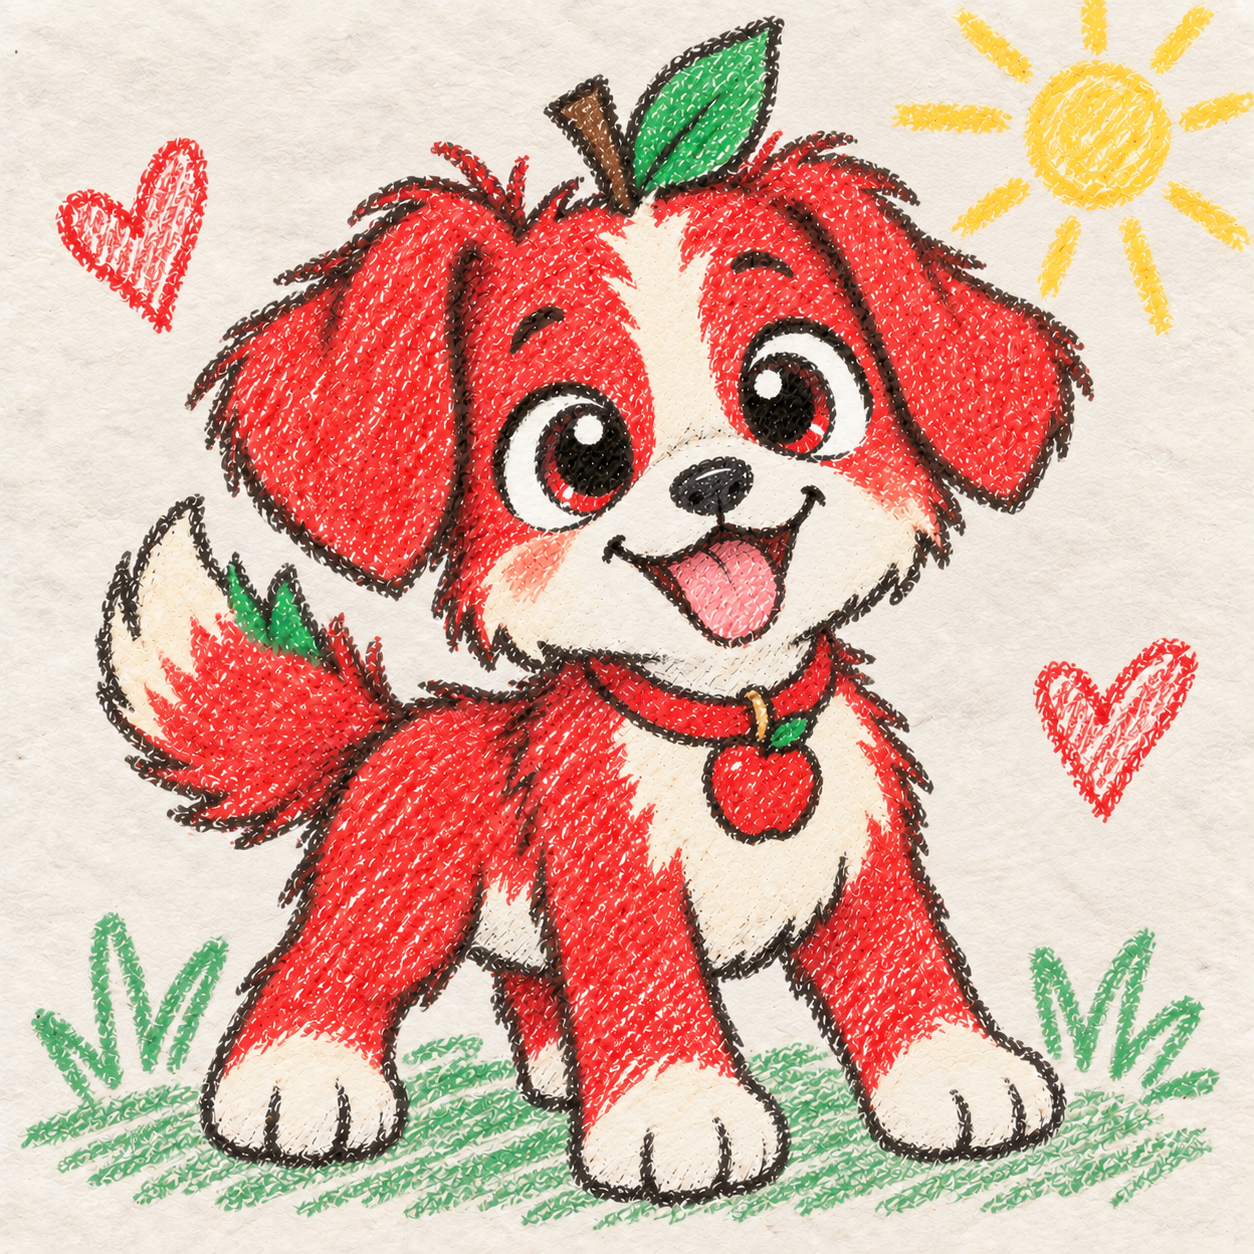
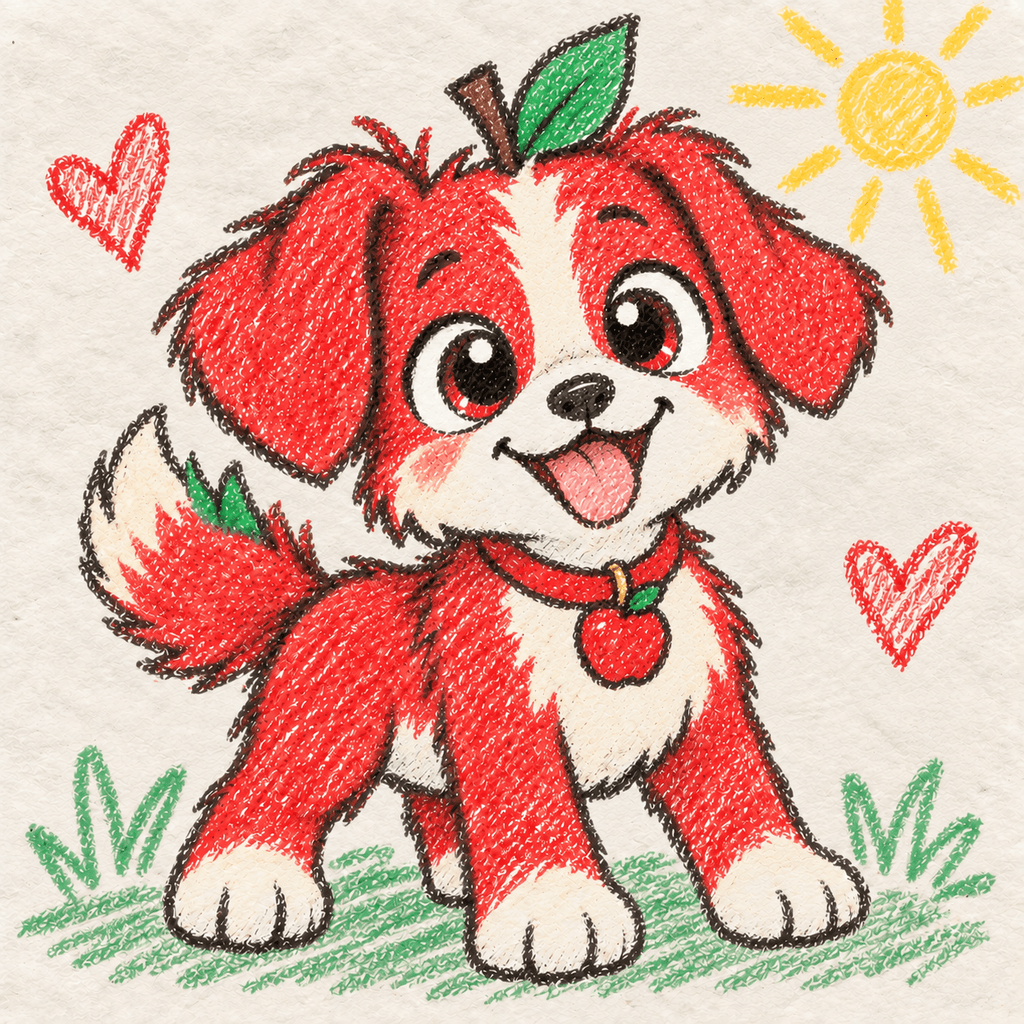
optimize NFT artwork assets (#467)
* optimize NFT artwork assets

Add `pnpm optimize:artwork`, a repeatable in-place optimizer for the 20
committed NFT PNGs, and run it: 51.9 MB -> 13.5 MB (74% smaller).

Public paths are unchanged — #461 serves these exact files as static
HTTPS NFT image URLs, so the script only ever rewrites bytes.

Stage art is downscaled to 1024px (693-800 KB each) and ticker logos to
896px (338-468 KB each), matching the per-class targets in #466. Palette
mode is what buys the reduction; a plain re-encode only saves ~25%.

Re-running is a no-op: files already at or below their target edge are
skipped, so the lossy encode is never stacked on itself.

Closes #466

* speed up optimizer tests to fix CI timeout

The "re-encode would be larger" case encoded an 1100px image at
`effort: 10`, taking 2.7s locally and exceeding the 5s default timeout
on CI.

optimizeFile is edge-agnostic, so the behaviour tests now use a 128px
edge with 160px fixtures instead of the real 1024px. Slowest case drops
from 2719ms to 118ms and the file runs in 519ms.

The oversized fixture keeps its periodic pattern, which PNG filters
store almost for free, and the non-integer downscale ratio is what
aliases it into incompressible noise — that is what makes the re-encode
larger than the source.

---------

diff --git a/tests/scripts/optimize-artwork.test.ts b/tests/scripts/optimize-artwork.test.ts
@@ -1,0 +1,176 @@
+import { mkdtemp, readFile, rm, writeFile } from "node:fs/promises";
+import { tmpdir } from "node:os";
+import path from "node:path";
+import sharp from "sharp";
+import { afterEach, beforeEach, describe, expect, it } from "vitest";
+import {
+  ARTWORK_TARGETS,
+  LOGO_MAX_EDGE,
+  STAGE_MAX_EDGE,
+  optimizeFile,
+} from "../../scripts/optimize-artwork.mjs";
+
+/**
+ * optimizeFile is edge-agnostic, so the behaviour tests use a small edge.
+ * Encoding at the real 1024px costs seconds per case at `effort: 10`.
+ */
+const EDGE = 128;
+const OVERSIZED = 160;
+
+let workDir: string;
+
+beforeEach(async () => {
+  workDir = await mkdtemp(path.join(tmpdir(), "optimize-artwork-"));
+});
+
+afterEach(async () => {
+  await rm(workDir, { recursive: true, force: true });
+});
+
+/** A square gradient PNG, which always re-encodes smaller. */
+async function writeGradient(name: string, size: number): Promise<string> {
+  const pixels = Buffer.alloc(size * size * 3);
+  for (let y = 0; y < size; y++) {
+    for (let x = 0; x < size; x++) {
+      const i = (y * size + x) * 3;
+      pixels[i] = (x * 255) / size;
+      pixels[i + 1] = (y * 255) / size;
+      pixels[i + 2] = ((x + y) * 255) / (2 * size);
+    }
+  }
+  return writePng(name, pixels, size);
+}
+
+async function writePng(
+  name: string,
+  pixels: Buffer,
+  size: number
+): Promise<string> {
+  const filePath = path.join(workDir, name);
+  await sharp(pixels, { raw: { width: size, height: size, channels: 3 } })
+    .png({ compressionLevel: 9 })
+    .toFile(filePath);
+  return filePath;
+}
+
+describe("ARTWORK_TARGETS", () => {
+  it("covers exactly the 16 stage images and 4 ticker logos", () => {
+    expect(ARTWORK_TARGETS.map((target) => target.file)).toEqual([
+      "public/aapl/healthy.png",
+      "public/aapl/warning.png",
+      "public/aapl/danger.png",
+      "public/aapl/liquidated.png",
+      "public/nvda/healthy.png",
+      "public/nvda/warning.png",
+      "public/nvda/danger.png",
+      "public/nvda/liquidated.png",
+      "public/googl/healthy.png",
+      "public/googl/warning.png",
+      "public/googl/danger.png",
+      "public/googl/liquidated.png",
+      "public/meta/healthy.png",
+      "public/meta/warning.png",
+      "public/meta/danger.png",
+      "public/meta/liquidated.png",
+      "public/logos/aapl.png",
+      "public/logos/nvda.png",
+      "public/logos/googl.png",
+      "public/logos/meta.png",
+    ]);
+  });
+
+  it("targets one edge for stage art and a smaller one for logos", () => {
+    const edgeFor = (file: string) =>
+      ARTWORK_TARGETS.find((target) => target.file === file)?.maxEdge;
+
+    expect(edgeFor("public/nvda/healthy.png")).toBe(STAGE_MAX_EDGE);
+    expect(edgeFor("public/meta/liquidated.png")).toBe(STAGE_MAX_EDGE);
+    expect(edgeFor("public/logos/nvda.png")).toBe(LOGO_MAX_EDGE);
+    expect(LOGO_MAX_EDGE).toBeLessThan(STAGE_MAX_EDGE);
+  });
+});
+
+describe("optimizeFile", () => {
+  it("downscales an oversized image to the target edge, still square PNG", async () => {
+    const filePath = await writeGradient("oversized.png", OVERSIZED);
+    const before = (await readFile(filePath)).byteLength;
+
+    const result = await optimizeFile(filePath, EDGE);
+
+    expect(result.status).toBe("replaced");
+    expect(result.after).toBeLessThan(before);
+
+    const metadata = await sharp(filePath).metadata();
+    expect(metadata.format).toBe("png");
+    expect(metadata.width).toBe(EDGE);
+    expect(metadata.height).toBe(EDGE);
+  });
+
+  it("leaves an already-small image byte-identical", async () => {
+    const filePath = await writeGradient("small.png", EDGE);
+    const original = await readFile(filePath);
+
+    const result = await optimizeFile(filePath, EDGE);
+
+    expect(result.status).toBe("skipped");
+    expect(await readFile(filePath)).toEqual(original);
+  });
+
+  it("is idempotent: a second run skips the file it just wrote", async () => {
+    const filePath = await writeGradient("twice.png", OVERSIZED);
+
+    const first = await optimizeFile(filePath, EDGE);
+    const optimized = await readFile(filePath);
+    const second = await optimizeFile(filePath, EDGE);
+
+    expect(first.status).toBe("replaced");
+    expect(second.status).toBe("skipped");
+    expect(await readFile(filePath)).toEqual(optimized);
+  });
+
+  it("keeps the original when the re-encode would be larger", async () => {
+    // A strictly periodic pattern costs almost nothing to store, because PNG
+    // filters predict it exactly. Downscaling by a non-integer ratio aliases
+    // the periodicity into noise that no longer compresses, so the re-encode
+    // comes out bigger than the source it would replace.
+    const pixels = Buffer.alloc(OVERSIZED * OVERSIZED * 3);
+    for (let i = 0; i < pixels.length; i++) {
+      pixels[i] = (i * 2654435761) % 256;
+    }
+    const filePath = await writePng("periodic.png", pixels, OVERSIZED);
+    const original = await readFile(filePath);
+
+    const result = await optimizeFile(filePath, EDGE);
+
+    expect(result.status).toBe("unchanged");
+    expect(result.after).toBe(result.before);
+    expect(await readFile(filePath)).toEqual(original);
+  });
+
+  it("does not leave a temp file behind", async () => {
+    const filePath = await writeGradient("tidy.png", OVERSIZED);
+
+    await optimizeFile(filePath, EDGE);
+
+    await expect(readFile(`${filePath}.tmp`)).rejects.toThrow();
+  });
+
+  it("rejects when the file does not exist", async () => {
+    await expect(
+      optimizeFile(path.join(workDir, "missing.png"), EDGE)
+    ).rejects.toThrow();
+  });
+});
+
+describe("optimizeFile write safety", () => {
+  it("does not touch sibling files in the same directory", async () => {
+    const target = await writeGradient("target.png", OVERSIZED);
+    const sibling = path.join(workDir, "sibling.png");
+    await writeFile(sibling, await readFile(target));
+    const siblingBefore = await readFile(sibling);
+
+    await optimizeFile(target, EDGE);
+
+    expect(await readFile(sibling)).toEqual(siblingBefore);
+  });
+});
